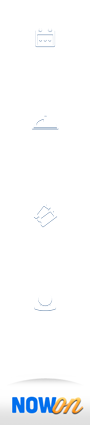
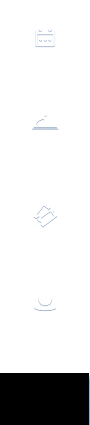
alterações

Changed region(s): [[0.0, 0.8565, 1.0, 1.0]]

diff --git a/public/assets/stylesheets/application.css b/public/assets/stylesheets/application.css
@@ -569,7 +569,7 @@ table{border-collapse:collapse;border-spacing:0}
         background-image:url("/assets/images/mobile/main-menu.png");
        }
        #main-menu .bt-nowon span{
-          background:#45A4DC;
+          background:#000;
           text-indent: 0!important;
        }
        .sub-menu
@@ -802,15 +802,8 @@ table{border-collapse:collapse;border-spacing:0}
             width: 28%;
             border:none;
             /* Safari 4-5, Chrome 1-9 */
-            background: -webkit-gradient(linear, 0% 0%, 0% 100%, from(#ffffff), to(#dfdfdf));
-            /* Safari 5.1, Chrome 10+ */
-            background: -webkit-linear-gradient(top, #ffffff, #dfdfdf);
-            /* Firefox 3.6+ */
-            background: -moz-linear-gradient(top, #ffffff, #dfdfdf);
-            /* IE 10 */
-            background: -ms-linear-gradient(top, #ffffff, #dfdfdf);
-            /* Opera 11.10+ */
-            background: -o-linear-gradient(top, #ffffff, #dfdfdf);
+            background: #000;
+            
           }
 
           .bt-mainmenu{
